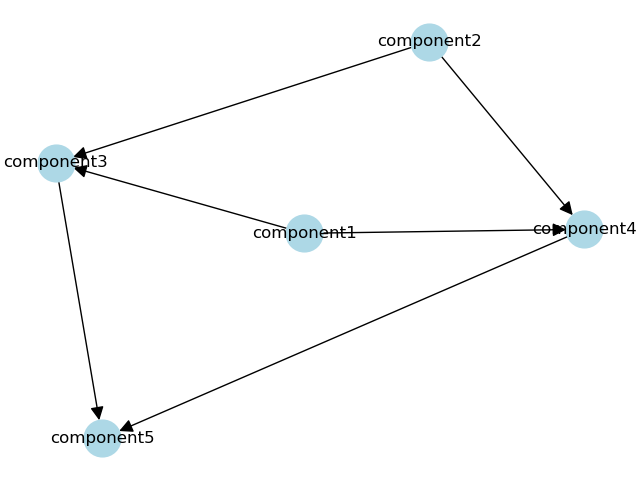
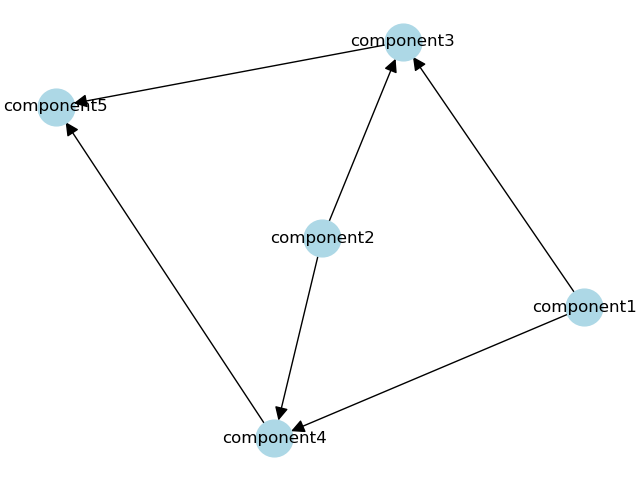
add component path and name generation

diff --git a/base_3.py b/base_3.py
@@ -2,18 +2,107 @@ import os
 import os.path as op
 import networkx as nx
 from itertools import product
+from copy import deepcopy as dc
 
 class Component(object):
-    def __init__(self, name, describe = None, suffix = None, folder = None):
+    def __init__(self, name, desc = None, suffix = None, datatype = None, run_metadata = None, extension = None, task = None, space = None, echo = None):
+        
         self.name = name
-        self.describe = describe
-        self.folder = folder
+        self.desc = desc
+        self.datatype = datatype
+        self.suffix = suffix
+        self.run_metadata = run_metadata        
+        self._current_derivatives_place = [] #TODO use a heap to store the current derivatives place instead of a variable
+        self.extension = extension
+        self.task = task
+        self.space = space
+        self.echo = echo        
+
+        
+    @property
+    def run_dir(self):
+        if self.run_metadata is None:
+            raise ValueError("run_metadata is not defined")
+        else:
+            return op.join(self.run_metadata.rootdir, *self._current_derivatives_place, self.run_metadata.session_place, self.datatype)
+        
+    @property    
+    def run_full_path(self):
+        return op.join(self.run_dir, self.run_bids_name)
+        
+    def set_current_derivative_place(self, derivatives_place):
+        if self._current_derivatives_place is None:
+            self._current_derivatives_place = derivatives_place
+        else:
+            raise ValueError("current_derivatives_place is being resetting")
     
+    @classmethod
+    def init_from(cls, component, **kwargs):
+        
+        dic = dc(component.__dict__)
+        dic.pop('_current_derivatives_place', None)#TODO temperal solution, modify when the heap is used     
+        if 'name' not in kwargs.keys():
+            raise ValueError("name is required when initial component from another component")        
+        for key, value in kwargs.items():
+            dic[key] = value
+                             
+        return cls(**dic)
+
+        
+        
+    @property
+    def run_bids_name(self, extention = False):
+   
+        '''
+        generage file name from dictionary
+        '''
+        dic = dc(self.__dict__)
+        dic.setdefault('sub', self.run_metadata.subject)
+        dic.setdefault('ses', self.run_metadata.session)
+        
+        def generate_name(ordered_dic, extention = False):
+            if extention:
+                return f'{"_".join([f"{key}-{value}" for key, value in ordered_dic.items() if value is not None])}_{dic['suffix']}.{dic["extension"]}'
+            else:
+                return f'{"_".join([f"{key}-{value}" for key, value in ordered_dic.items() if value is not None])}_{dic['suffix']}'
+            
+        
+        match self.suffix:
+            case "bold":
+                order = ['sub', 'ses', 'task', 'acq', 'ce', 'rec', 'dir', 'run', 'echo', 'part', 'chunk', 'space', 'desc']
+                ordered_dic = {key: dic[key] for key in order if key in dic}
+                return generate_name(ordered_dic, extention = extention)
+                
+
+            case "MP2RAGE":
+                order = ['sub', 'ses', 'task', 'acq', 'ce', 'rec', 'run', 'echo', 'flip', 'inv', 'part', 'chunk', 'space', 'desc']
+                ordered_dic = {key: dic[key] for key in order if key in dic}
+                return generate_name(ordered_dic, extention = extention)
+
+            case "T1w":
+                order = ['sub', 'ses', 'task', 'acq', 'ce', 'rec', 'run', 'echo', 'part', 'chunk', 'space', 'desc']
+                ordered_dic = {key: dic[key] for key in order if key in dic}
+                return generate_name(ordered_dic, extention = extention)
+            
+            case "fmap":
+                ['sub', 'ses', 'acq', 'run', 'chunk', 'space', 'desc']
+                ordered_dic = {key: dic[key] for key in order if key in dic}
+                return generate_name(ordered_dic, extention = extention)
+            
+            case _: raise ValueError(f"suffix of {self.name} is not defined")
+                
+                
+                
+                
 
 class Initial_component(Component):
     pass
 
 class Work(object):
+    '''
+    Work is container to wrap actions for a work flow
+    input and out put should be a list of components
+    '''
     def __init__(self, name, input_components = None, output_components = None, action = None, derivatives_place = None):
         
         self.name = name
@@ -48,10 +137,15 @@ class Work(object):
             
         if self.derivatives_place is not None:
             _current_derivatives_place = self.derivatives_place + _current_derivatives_place
-        print(self.action)
+            
         if self.action is None:
+            
             raise ValueError(f"action of {self.name} is not defined")
         
+        for component in self.output_components:
+            component.run_metadata = run_metadata
+            component.set_current_derivative_place(_current_derivatives_place)
+        #may not work properly
         self.action(self.input_components, self.output_components, run_metadata, _current_derivatives_place)
         
     def add_action(self, action):
@@ -81,6 +175,9 @@ class Workflow(Work):
     
     @property    
     def cp_directed_graph(self):
+        '''
+        create a directed graph with components as nodes and works as edges        
+        '''
         G = nx.DiGraph()    
         G.add_nodes_from(self.all_components)
         
@@ -90,22 +187,47 @@ class Workflow(Work):
         return G
     
     def draw_graph(self, file_name = "workflow.png"):
-        
+        '''
+        draw a cp_directed_graph graph 
+        '''
         import matplotlib.pyplot as plt
         
         nx.draw(self.cp_directed_graph, with_labels=True, labels= {component: component.name for work in self.worklist for component in work.all_components}, node_color='lightblue', node_size=700, arrowstyle='-|>', arrowsize=20)
         plt.savefig(file_name)
+    
+    @property
+    def work_directed_graph(self):
+        '''
+        create a directed graph with work as nodes and components as edges
+        components are contained in the components attribute of the edge
+        '''
+        G = nx.DiGraph()
         
+        for work in self.worklist:
+            G.add_node(work)
+            #TODO may exchange the order work.input_components and G.nodes, to pre-construct a dictinary for the input_components to accelerate the process
+            for input_component in work.input_components:
+                for already_in_work in G.nodes:
+                    matching_components = [
+                        output_component
+                        for output_component in already_in_work.output_components
+                        if input_component == output_component
+                    ]
+                    if matching_components:
+                        G.add_edge(already_in_work, work, components=matching_components)
+        
+        return G
+                
         
     def run(self, run_metadata, _current_derivatives_place = None):
         for work in self.worklist:
 
-                if _current_derivatives_place is None:
-                    _current_derivatives_place = []
-                if self.derivatives_place is not None:
-                    _current_derivatives_place = self.derivatives_place + _current_derivatives_place
-                    
-                work.run(run_metadata, _current_derivatives_place = _current_derivatives_place)  
+            if _current_derivatives_place is None:
+                _current_derivatives_place = []
+            if self.derivatives_place is not None:
+                _current_derivatives_place = self.derivatives_place + _current_derivatives_place
+                
+            work.run(run_metadata, _current_derivatives_place = _current_derivatives_place)  
                 
     
     @property
@@ -114,7 +236,7 @@ class Workflow(Work):
     
 
 class RunMetaData(object):
-    def __init__(self, rootdir, subject, datatype, session = None):
+    def __init__(self, rootdir, subject, datatype = None, session = None):
         self.rootdir = rootdir
         self.subject = subject
         self.session = session
@@ -129,7 +251,15 @@ class RunMetaData(object):
         if self.session is None:
             raise ValueError("session is not defined")
         else:
-            return op.join(self.rootdir, self.subject, self.session)        
+            return op.join(self.rootdir, self.subject, self.session)
+    @property
+    def session_place(self):
+        if self.session is None:
+            return op.join(self.subject)
+        else:
+            return op.join(self.subject, self.session)
+        
+            
     @property
     def datatypedir(self):
         if self.session is None:
@@ -139,3 +269,7 @@ class RunMetaData(object):
 
 
 
+            
+            
+            
+            

diff --git a/meicapreprocess.py b/meicapreprocess.py
@@ -1,0 +1,19 @@
+from base_3 import *
+from config import *
+
+test_meta_data = RunMetaData('/rootdir', 's001')
+
+
+initial_epis = [Component(f'origin_epi_echo_{echo_number}', space = 'origin', desc = 'origin', suffix = 'bold', echo = echo_number, datatype = 'func') for echo_number in range(4)]
+
+despiked_epis = [Component.init_from(initial_epi, name = f'{initial_epi.name}_despiked', desc = 'despiked') for initial_epi in initial_epis]
+
+def despike_func(input_file, output_file):
+    print(f'despike_func {input_file} {output_file}')
+
+despike = [Work(f'despike_epi_{echo_number}', [initial_epis[echo_number]], [despiked_epis[echo_number]], derivatives_place=['despike']) for echo_number in range(4)]
+
+despike[0].add_action(despike_func)
+
+for work in despike:
+    work.run(test_meta_data, [])
